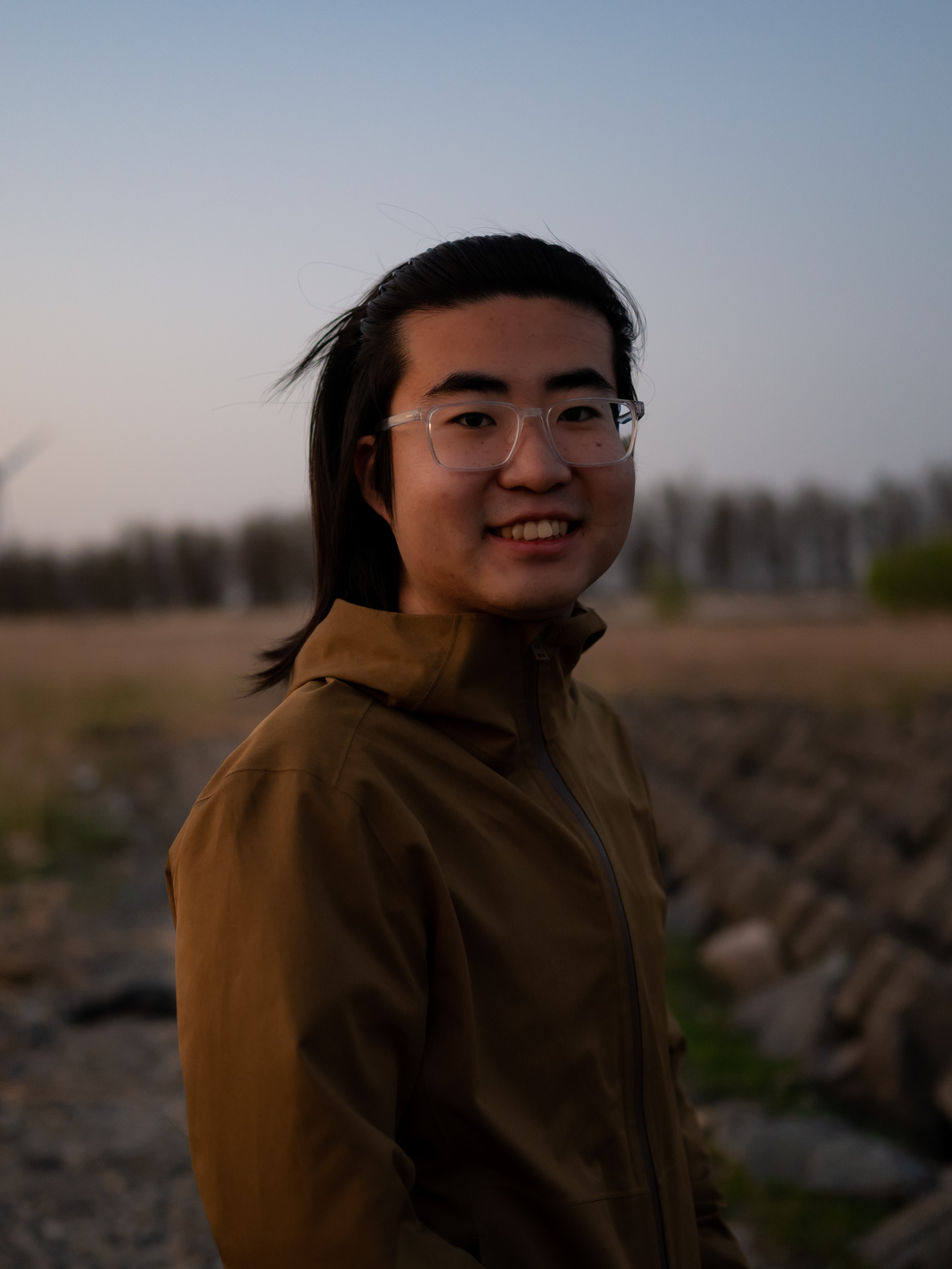
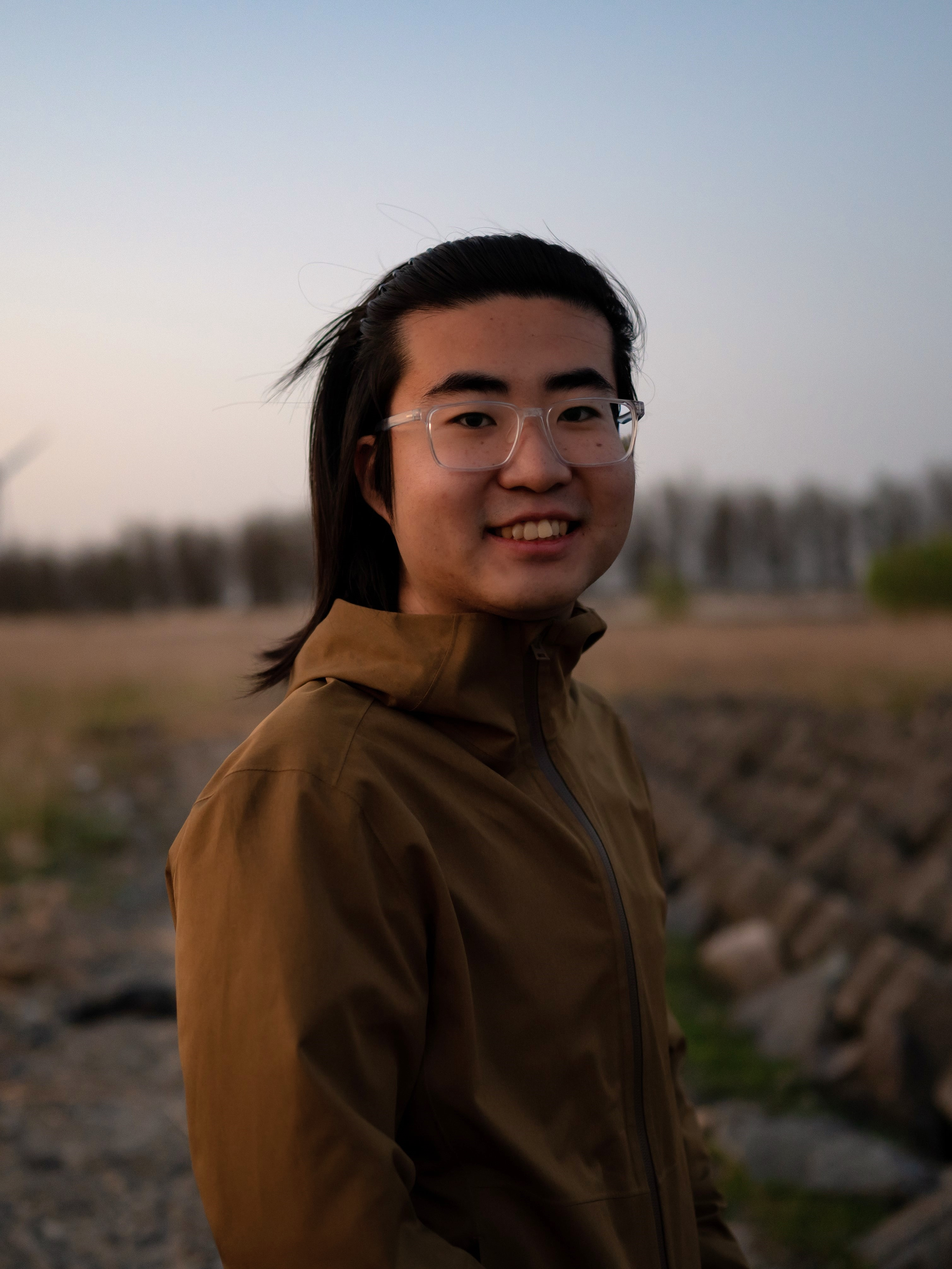
change_fig

Changed region(s): [[0.0, 0.0, 1.0, 0.435], [0.4049, 0.3107, 0.4672, 0.4039]]

diff --git a/_pages/about.md b/_pages/about.md
@@ -7,7 +7,7 @@ subtitle:
 
 profile:
   align: right
-  image: txy.jpg
+  image: bio_txy_1.jpg
   image_circular: false # crops the image to make it circular
   # address: >
   #   <p>GHC 5007</p>
